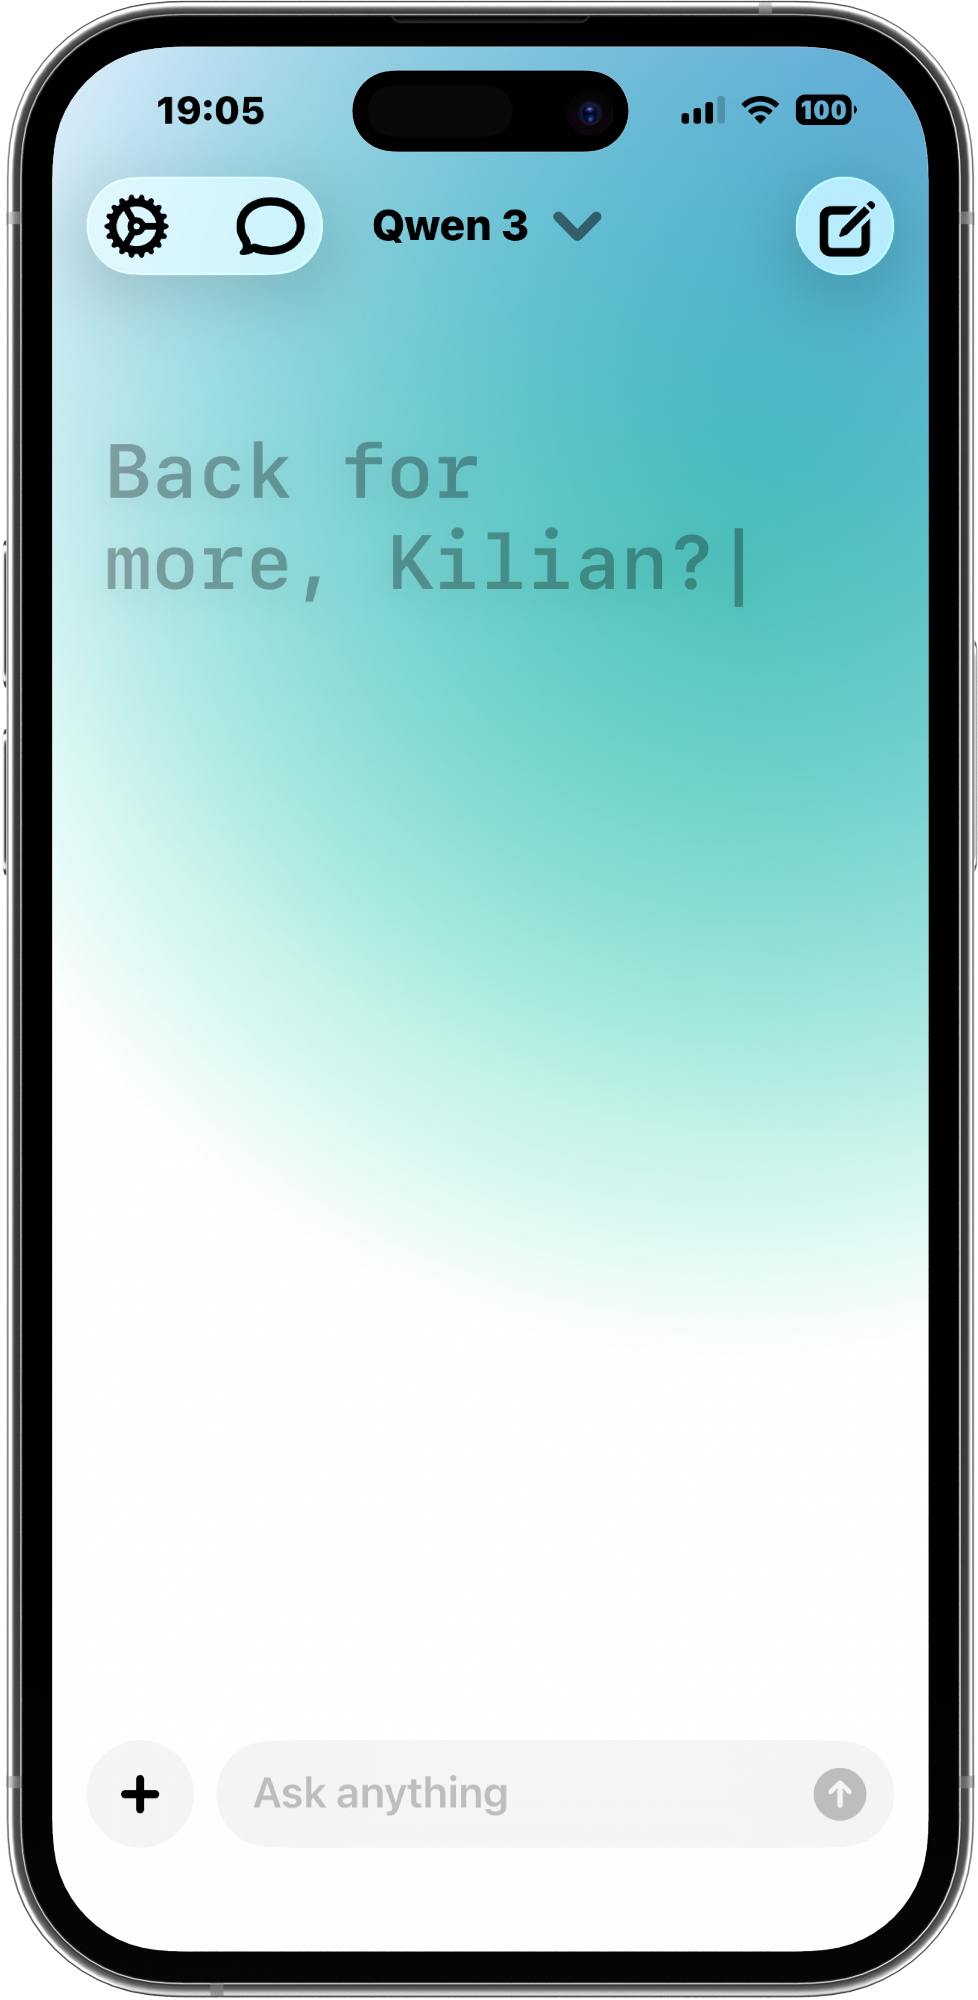
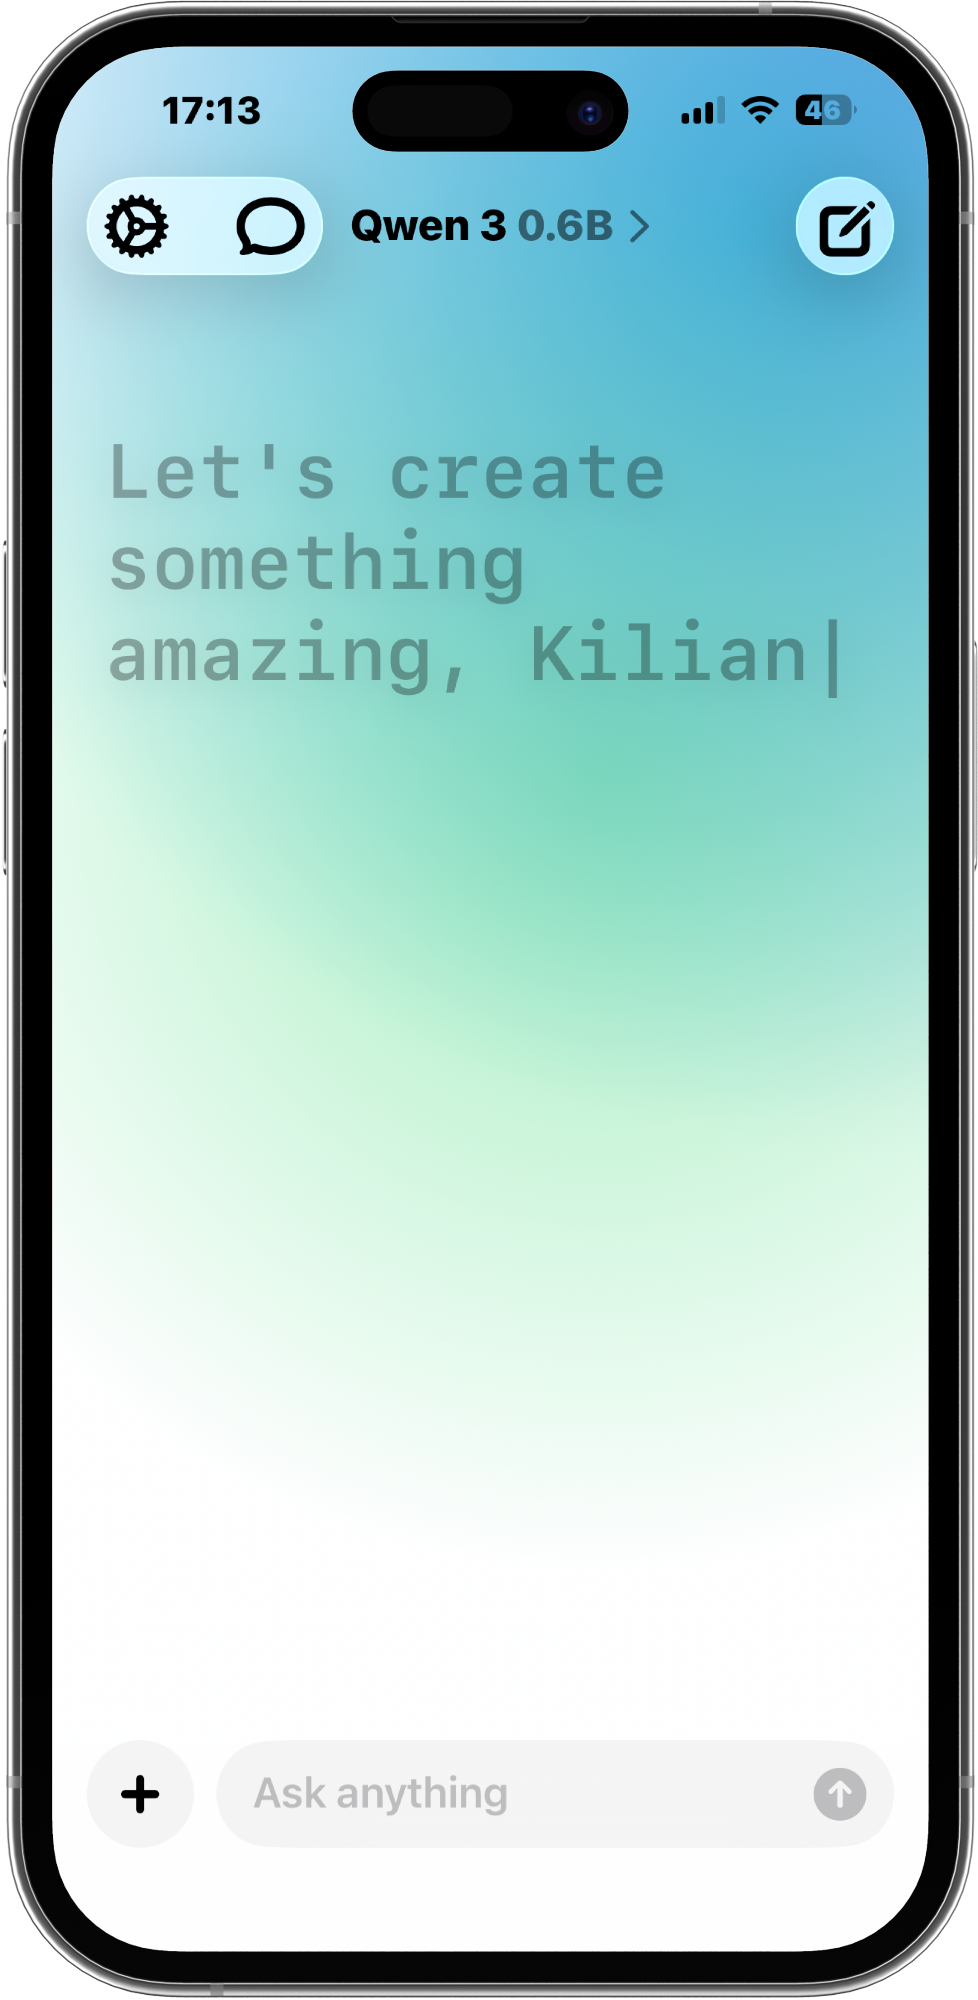
Add models showcase section with screenshot
- Add "All your models in your hand" section with voltaire-screenshot-models.png
- Add responsive CSS styles for the new models showcase section

diff --git a/src/app/globals.css b/src/app/globals.css
@@ -471,6 +471,43 @@ a:hover {
 	font-weight: 500;
 }
 
+/* Models Showcase */
+.models-showcase {
+	padding: 100px 0;
+	background: var(--bg);
+}
+
+.models-showcase-inner {
+	display: grid;
+	grid-template-columns: 1fr 1fr;
+	gap: 60px;
+	align-items: center;
+}
+
+.models-showcase-content h2 {
+	font-size: clamp(28px, 3.5vw, 40px);
+	font-weight: 700;
+	margin-bottom: 20px;
+	line-height: 1.15;
+	letter-spacing: -0.02em;
+}
+
+.models-showcase-content p {
+	font-size: 16px;
+	color: var(--text-muted);
+	line-height: 1.7;
+}
+
+.models-showcase-image {
+	text-align: center;
+}
+
+.models-showcase-image img {
+	border-radius: 20px;
+	max-width: 100%;
+	height: auto;
+}
+
 /* Testimonial / Quote */
 .quote-section {
 	padding: 100px 0;
@@ -809,6 +846,16 @@ a:hover {
 	}
 
 	.apple-silicon-content {
+		text-align: left;
+	}
+
+	.models-showcase-inner {
+		grid-template-columns: 1fr;
+		gap: 40px;
+		text-align: center;
+	}
+
+	.models-showcase-content {
 		text-align: left;
 	}
 

diff --git a/src/app/page.tsx b/src/app/page.tsx
@@ -165,12 +165,29 @@ export default function Home() {
         </div>
       </section>
 
+      {/* Models Showcase */}
+      <section className="models-showcase">
+        <div className="container">
+          <div className="models-showcase-inner">
+            <div className="models-showcase-content">
+              <h2>All your models in your hand.</h2>
+              <p>
+                Browse, download, and switch between models effortlessly. From powerful reasoning to creative writing, pick the right model for every task—all running locally on your device.
+              </p>
+            </div>
+            <div className="models-showcase-image">
+              <Image src="/images/voltaire-screenshot-models.png" alt="Voltaire model list" width={400} height={866} style={{ width: "100%", maxWidth: 400, height: "auto" }} />
+            </div>
+          </div>
+        </div>
+      </section>
+
       {/* Apple Silicon MLX - KEPT */}
       <section className="apple-silicon">
         <div className="container">
           <div className="apple-silicon-inner">
             <div className="apple-silicon-image">
-              <Image src="/images/a18_chip.jpg" alt="Apple A18 Chip" width={500} height={500} style={{ maxWidth: 400, width: "100%", height: "auto" }} />
+              <Image src="/images/A19-Pro-Chip.jpg" alt="Apple A19 Pro Chip" width={800} height={800} style={{ maxWidth: 600, width: "100%", height: "auto" }} />
             </div>
             <div className="apple-silicon-content">
               <h2>Optimized for Apple Silicon. Powered by MLX.</h2>